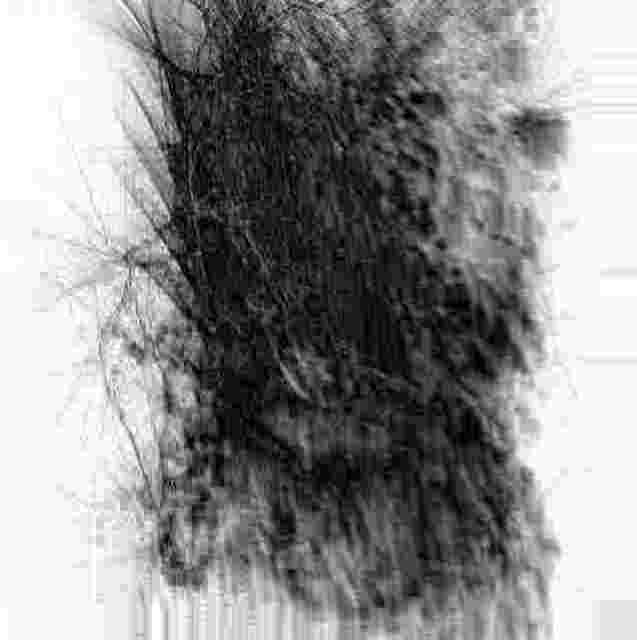
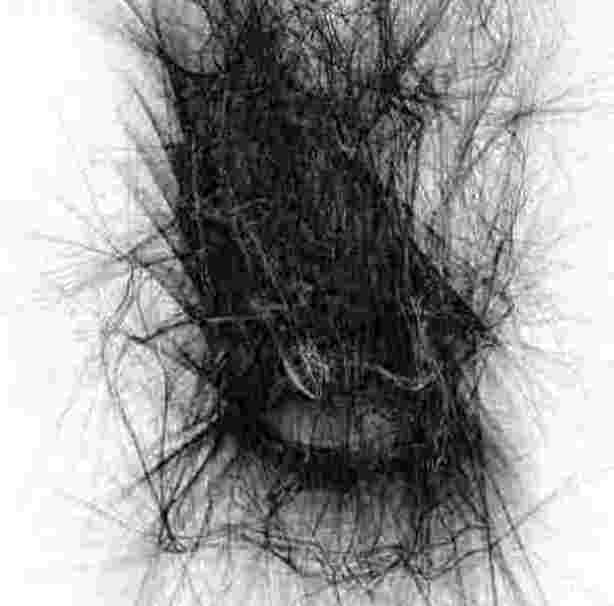
markdown previes of all apps

diff --git a/meshCam/src/ofApp.cpp b/meshCam/src/ofApp.cpp
@@ -15,7 +15,7 @@ void ofApp::setup(){
             mesh.addColor(ofColor(ofRandom(20),ofRandom(10),ofRandom(30), ofRandom(60)));
         }
     }
-    extrusionAmount = 300;
+    extrusionAmount = 160;
     
     cam.setScale(1,-1,1);
 
@@ -43,9 +43,9 @@ void ofApp::update(){
         ofVec3f camDirection(0,0,1);
         ofVec3f centre(vidGrabber.getWidth()/2.f,vidGrabber.getHeight()/2.f, 255/2.f);
         ofVec3f camDirectionRotated = camDirection.getRotated(rotateAmount, ofVec3f(0,1,0));
-        ofVec3f camPosition = centre + camDirectionRotated * extrusionAmount;
+        ofVec3f camPosition = centre + camDirectionRotated * extrusionAmount*3;
         
-        cam.setPosition(camPosition - ofPoint(0,0,150));
+        cam.setPosition(camPosition - ofPoint(0,0,300));
         cam.lookAt(centre);
     }
 }

diff --git a/README.md b/README.md
@@ -1,1 +1,20 @@
-# OF_Work_2015
+# OpenFrameworks Experiments 2015
+
+#### Work Created at SAIC to learn OF
+
+##### camColNoiseParticles
+![camColNoiseParticles](README_PICS/camColNoiseParticles.jpg)
+##### imageCompression
+![imageCompression](README_PICS/imageCompression.jpg)
+##### meshAudio
+![meshAudio](README_PICS/meshaudio.jpg)
+##### meshCam
+![meshCam](README_PICS/meshCam.jpg)
+##### midtermWithScale
+![midtermWithScale](README_PICS/midtermWithScale.jpg)
+##### NoiseParticles
+![NoiseParticles](README_PICS/NoiseParticles.jpg)
+##### PolyCamExtendLines
+![PolyCamExtendLines](README_PICS/PolyCamExtendLines.jpg)
+##### PolyCam
+![PolyCam](README_PICS/PolyCam.jpg)
